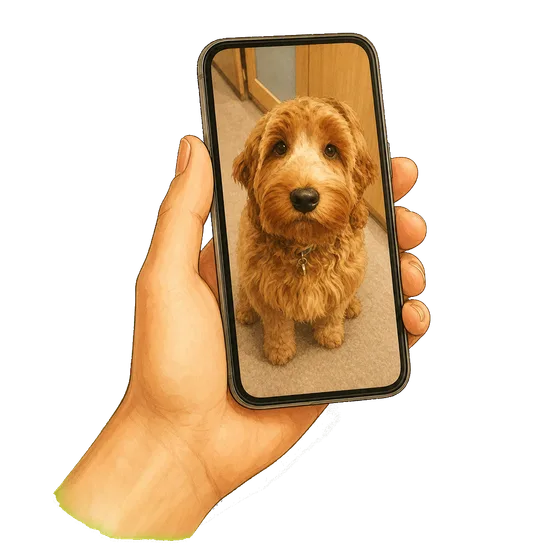
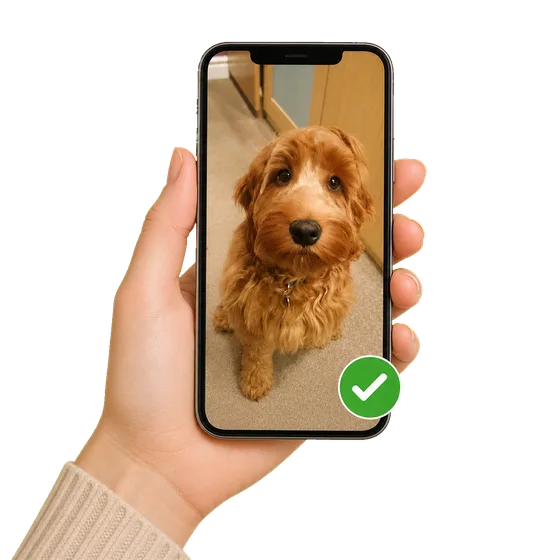
Pawtraits: approved step copy + Monty step images v4 - upload+tick, describe+prompt, framed Monty in a field

diff --git a/src/components/portraits/HowItWorks.tsx b/src/components/portraits/HowItWorks.tsx
@@ -25,19 +25,19 @@ const STEPS: Step[] = [
   {
     index: "01",
     img: step1,
-    title: "Add a photo",
-    body: "Tell us the moment you picture.",
+    title: "Upload a photo",
+    body: "Any clear photo of them.",
   },
   {
     index: "02",
     img: step2,
-    title: "See them painted on screen",
-    body: "Adjust until it feels like them.",
+    title: "Describe how you want them",
+    body: "The style and scene — in your words.",
   },
   {
     index: "03",
     img: step3,
-    title: "Bring them home",
+    title: "Choose a frame, we deliver",
     body: "Hand-finished canvas, 3–5 days.",
   },
 ];